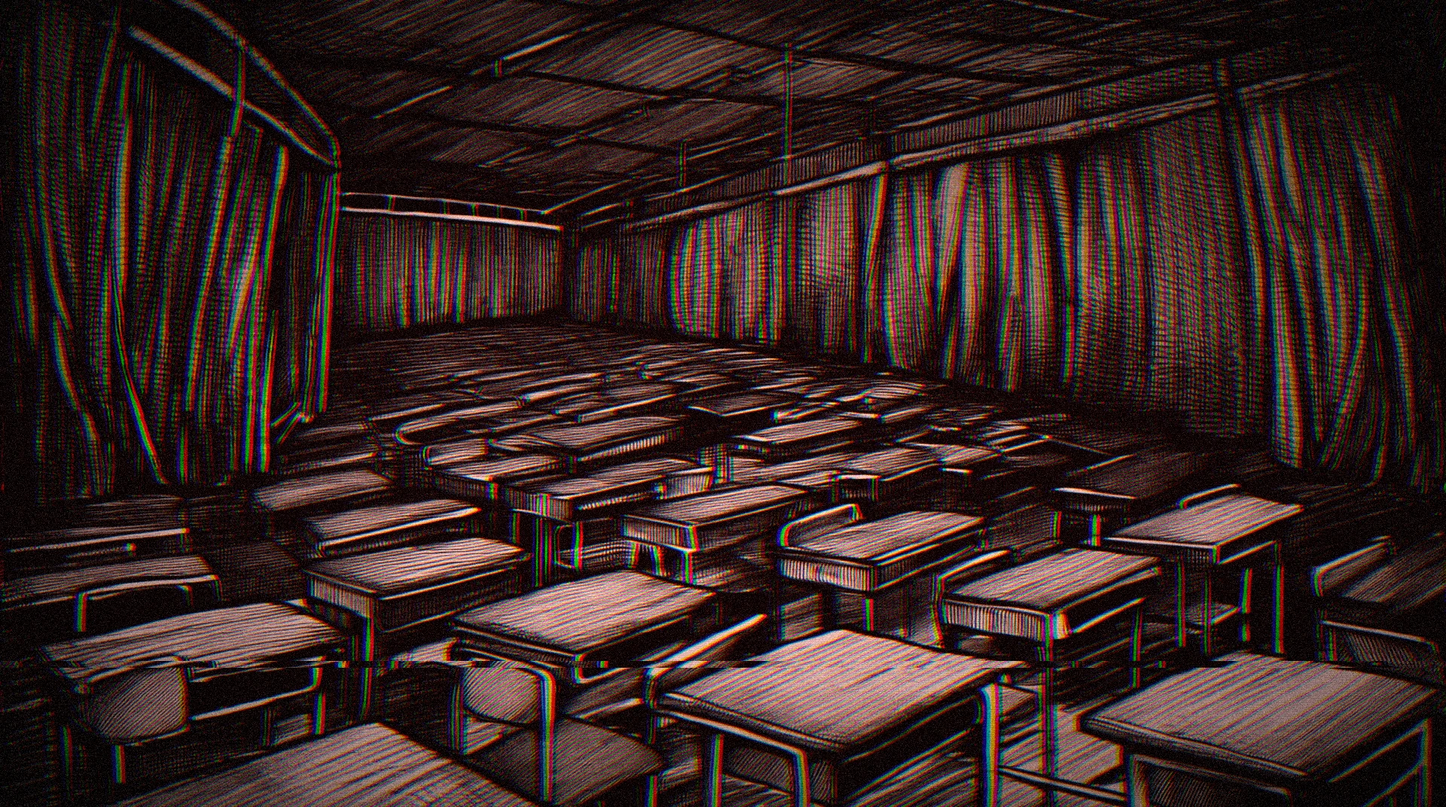
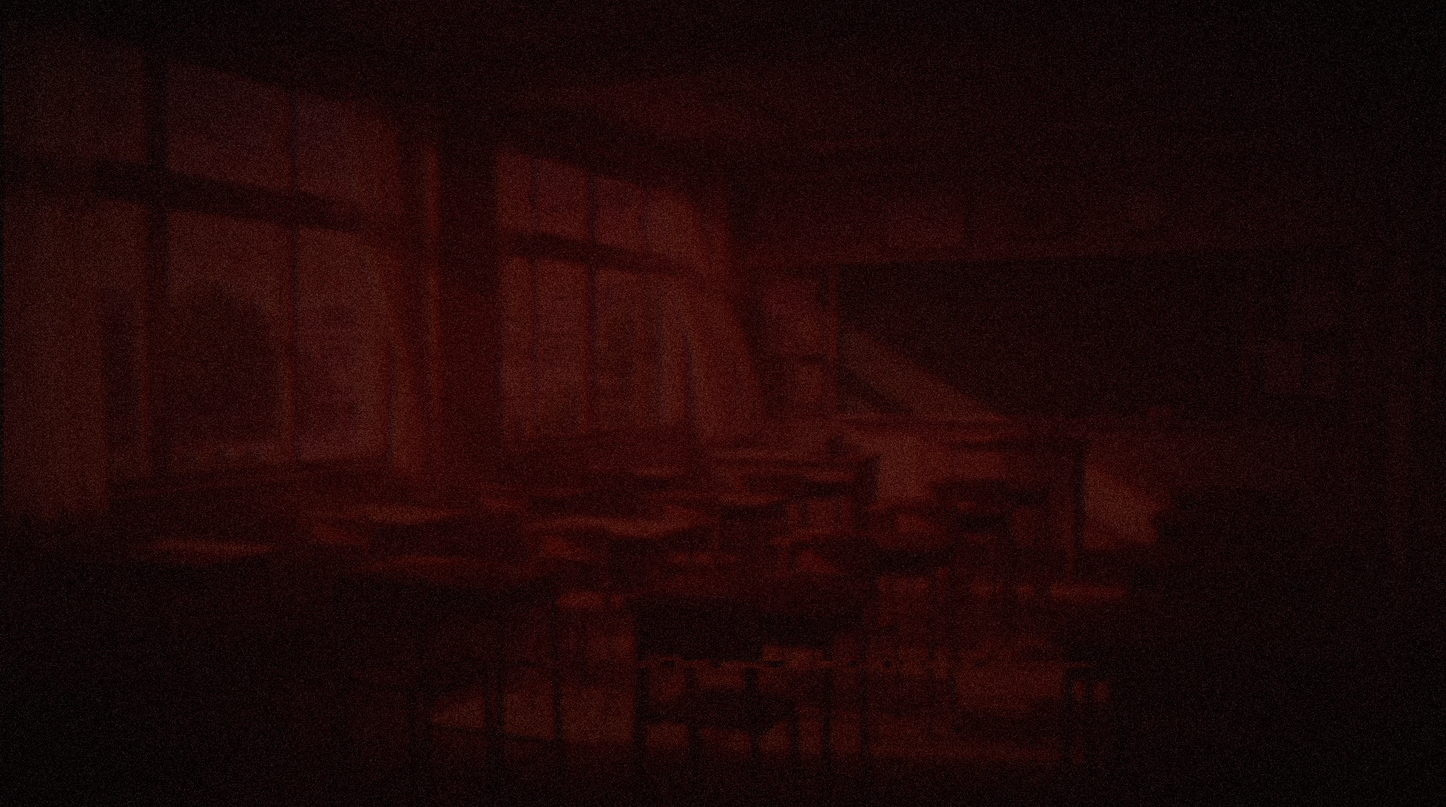
2.3.0: build CGs from the game's own sprites and backgrounds so characters and style are consistent

diff --git a/tools/make_horror_cg.py b/tools/make_horror_cg.py
@@ -1,0 +1,44 @@
+"""Horror CGs built from the game's own sprites and backgrounds (same hand as everything else), written to ../_comfy/orig_cg
+for tools/horror_grade.py to corrupt. usage: python tools/make_horror_cg.py"""
+import numpy as np
+from pathlib import Path
+from PIL import Image, ImageFilter, ImageEnhance, ImageChops
+R = Path(__file__).resolve().parent.parent
+OUT = R.parent / "_comfy" / "orig_cg"
+W, H = 1920, 1072
+def bg(name, dark=0.42, blur=3, red=0.35):
+    im = Image.open(R / "assets" / "bg" / f"{name}.webp").convert("RGB").resize((W, H)).filter(ImageFilter.GaussianBlur(blur))
+    a = np.asarray(ImageEnhance.Brightness(im).enhance(dark), dtype=np.float32) / 255
+    a = a * (1 - red) + np.array([0.5, 0.03, 0.06], dtype=np.float32) * red * (0.4 + a.mean(2, keepdims=True))
+    return Image.fromarray((np.clip(a, 0, 1) * 255).astype(np.uint8)).convert("RGBA")
+def spr(path):
+    return Image.open(R / "assets" / "sprites" / f"{path}.webp").convert("RGBA")
+def put(base, sp, scale, cx, top, bright=0.8, stretch=1.0, rot=0, silhouette=False, glow=(190, 20, 40)):
+    s = sp.resize((int(sp.width * scale), int(sp.height * scale * stretch)), Image.LANCZOS)
+    if silhouette:
+        a = s.getchannel("A"); s = Image.merge("RGBA", (Image.new("L", s.size, 4), Image.new("L", s.size, 2), Image.new("L", s.size, 3), a))
+    else:
+        s = Image.merge("RGBA", (*[c.point(lambda v: int(v * bright)) for c in s.split()[:3]], s.getchannel("A")))
+    if rot: s = s.rotate(rot, resample=Image.BICUBIC, expand=True)
+    layer = Image.new("RGBA", base.size, (0, 0, 0, 0)); layer.alpha_composite(s, (int(cx - s.width / 2), int(top)))
+    g = Image.new("RGBA", base.size, glow + (0,)); g.putalpha(layer.getchannel("A").filter(ImageFilter.GaussianBlur(34)).point(lambda v: int(v * 0.7)))
+    return Image.alpha_composite(Image.alpha_composite(base, g), layer)
+def save(img, name): img.convert("RGB").save(OUT / f"{name}.webp", quality=95); print(name)
+OUT.mkdir(parents=True, exist_ok=True)
+# the girls, corrupted, in the game's own rooms
+save(put(bg("classroom"), spr("hina/corrupt"), 1.25, 960, -40), "h_hina_blank")
+save(put(bg("rooftop", dark=0.3), spr("rei/corrupt"), 1.25, 960, -40), "h_rei_flash")
+save(put(bg("darkroom", dark=0.5), spr("sayo/corrupt"), 1.25, 960, -40), "h_sayo_scribble")
+# staff
+save(put(bg("infirmary", dark=0.35), spr("nurse/neutral"), 1.25, 960, -40, bright=0.7), "h_nurse_glitch")
+# the thing behind you: K's silhouette, stretched, getting closer. The room in front is empty.
+room = bg("classroom", dark=0.3, red=0.3)
+k = spr("k/neutral")
+save(room, "h_stalk_front")
+save(put(room, k, 0.34, 1330, 540, stretch=1.4, silhouette=True, glow=(120, 10, 25)), "h_stalk_1")
+save(put(room, k, 0.62, 1100, 330, stretch=1.4, silhouette=True), "h_stalk_2")
+save(put(room, k, 1.15, 960, -140, stretch=1.35, silhouette=True, rot=-6), "h_stalk_3")
+# the face: a corrupted sprite blown up until the screen is mostly eyes
+face = spr("hina/corrupt").crop((220, 120, 880, 640)); face = face.resize((1980, 1560), Image.LANCZOS)
+fb = Image.new("RGBA", (W, H), (8, 0, 2, 255)); fb.alpha_composite(face, (-30, -250))
+save(fb, "h_stalk_face")

diff --git a/tools/make_cg.py b/tools/make_cg.py
@@ -1,0 +1,33 @@
+"""Builds CGs from the game's own sprites + backgrounds, so the girls are always exactly themselves.
+usage: python tools/make_cg.py   (writes assets/cg/cute_<girl>.webp; horror ones are made by tools/make_horror_cg.py)"""
+import numpy as np
+from pathlib import Path
+from PIL import Image, ImageFilter, ImageEnhance
+R = Path(__file__).resolve().parent.parent
+W, H = 1920, 1072
+def sprite(girl, expr):
+    return Image.open(R / "assets" / "sprites" / girl / f"{expr}.webp").convert("RGBA")
+def place(base, sp, scale, cx, top):
+    s = sp.resize((int(sp.width * scale), int(sp.height * scale)), Image.LANCZOS)
+    layer = Image.new("RGBA", base.size, (0, 0, 0, 0)); layer.alpha_composite(s, (int(cx - s.width / 2), int(top)))
+    return layer
+def warm_bg(name, blur=7, tint=(255, 168, 110), mix=0.28):
+    bg = Image.open(R / "assets" / "bg" / f"{name}.webp").convert("RGB").resize((W, H)).filter(ImageFilter.GaussianBlur(blur))
+    bg = ImageEnhance.Brightness(bg).enhance(1.05)
+    return Image.blend(bg, Image.new("RGB", (W, H), tint), mix)
+def cute(girl, expr, bg, cx, scale=1.55, top=-60, tint=(255, 168, 110)):
+    base = warm_bg(bg, tint=tint).convert("RGBA")
+    layer = place(base, sprite(girl, expr), scale, cx, top)
+    a = layer.getchannel("A")
+    # warm rim light: a soft glow built from the sprite's own silhouette, then the sprite on top
+    glow = Image.new("RGBA", base.size, tint + (0,)); glow.putalpha(a.filter(ImageFilter.GaussianBlur(26)).point(lambda v: int(v * 0.55)))
+    base = Image.alpha_composite(base, glow); base = Image.alpha_composite(base, layer)
+    out = base.convert("RGB")
+    arr = np.asarray(out, dtype=np.float32) / 255
+    yy, xx = np.mgrid[0:H, 0:W]; d = np.sqrt(((xx - W / 2) / (W / 2)) ** 2 + ((yy - H / 2) / (H / 2)) ** 2)
+    arr = arr * np.clip(1.06 - 0.28 * d ** 1.8, 0.55, 1)[:, :, None]
+    Image.fromarray((np.clip(arr, 0, 1) * 255).astype(np.uint8)).save(R / "assets" / "cg" / f"cute_{girl}.webp", quality=92)
+if __name__ == "__main__":
+    cute("hina", "lean_blush", "rooftop", 1180)
+    cute("rei", "lean", "rooftop", 760, tint=(255, 140, 120))
+    cute("sayo", "twirl", "rooftop", 1180, tint=(255, 150, 160))
